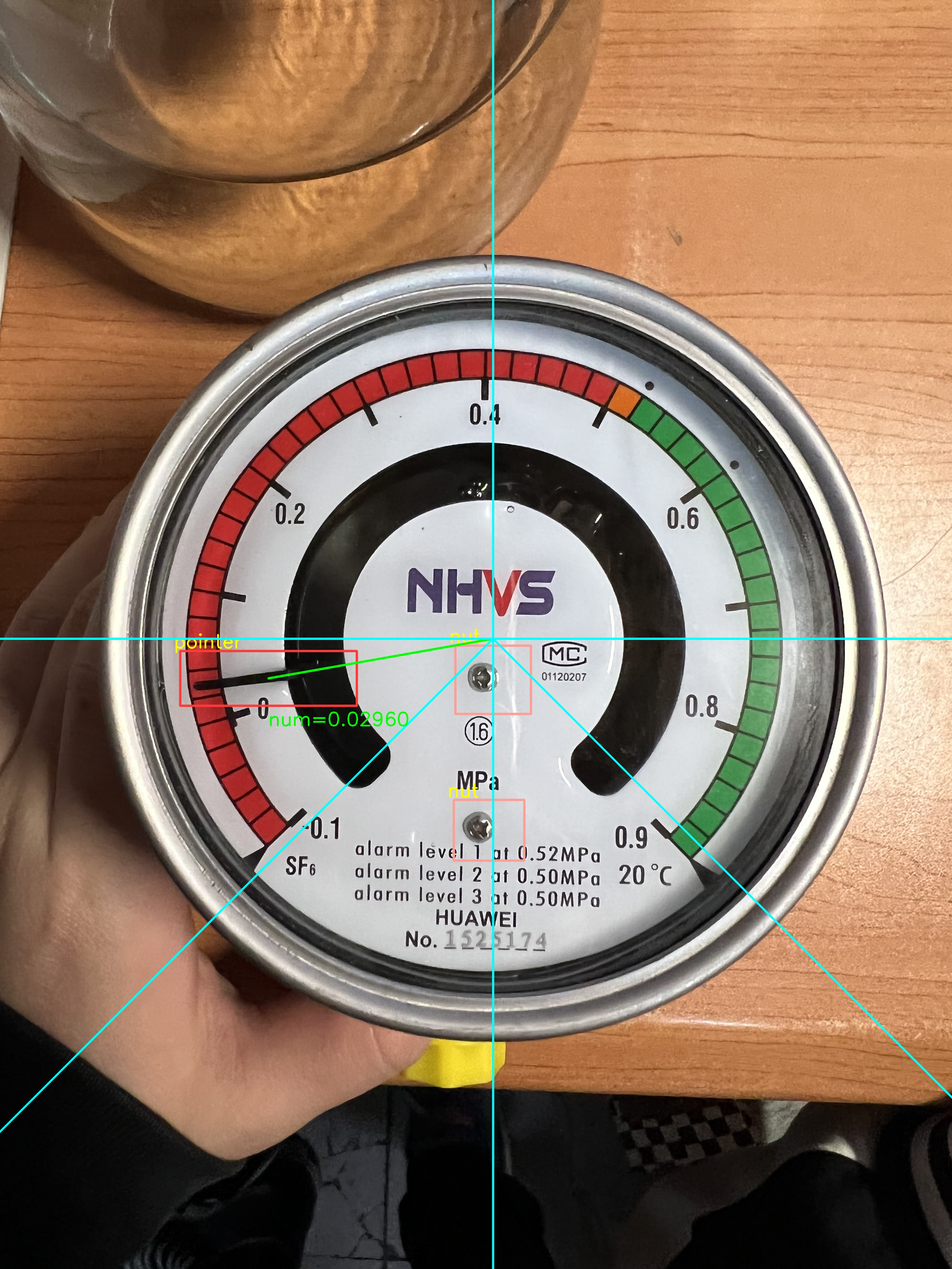
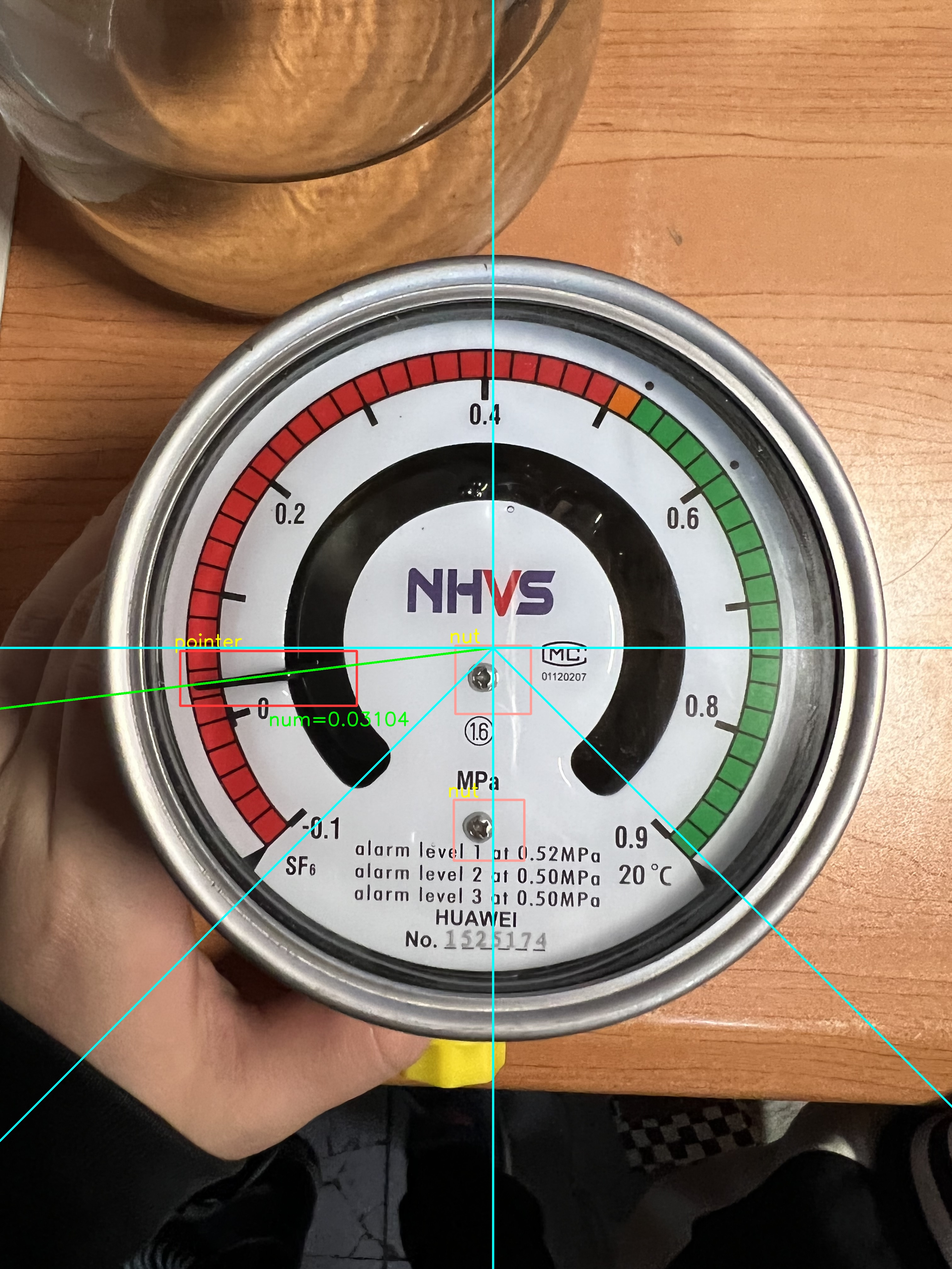
改进了以霍夫直线变换产生的斜率与中心y轴为交点的方法，但算K值的中心还没完善

diff --git a/yolov5_dnn.py b/yolov5_dnn.py
@@ -6,6 +6,7 @@ import time
 import math
 import os
 from numpy import array
+from meter_read import draw_line
 
 
 class Colors:
@@ -29,7 +30,7 @@ class Colors:
 colors = Colors()
 
 
-class yolov5():
+class yolov5:
     def __init__(self, onnx_path, confThreshold=0.25, nmsThreshold=0.45):
         self.classes = ['pointer', 'nut']
         self.colors = [np.random.randint(0, 255, size=3).tolist() for _ in range(len(self.classes))]
@@ -186,94 +187,55 @@ class yolov5():
         pred = self.non_max_suppression(outs, self.confThreshold, agnostic=False)
 
         center_nut = [100000000, 100000000]  # 表示inf
-        point = [0, 0]
+        point = [0] * 6
 
         # draw box
-        for i in pred[0]:
-            left = int((i[0] - wh[0]) / ratio[0])
-            top = int((i[1] - wh[1]) / ratio[1])
-            width = int((i[2] - wh[0]) / ratio[0])
-            height = int((i[3] - wh[1]) / ratio[1])
-            conf = i[4]
-            classId = i[5]
-            _class = self.classes[int(classId)]
-            cv2.rectangle(src_img, (int(left), int(top)), (int(width), int(height)), colors(classId, True), 5,
-                          lineType=cv2.LINE_AA)
-            # label = '%.2f' % conf
-            # label = '%s:%s' % (self.classes[int(classId)], label)
+        if len(pred[0]) > 0:  # 有无检测结果
 
-            label = '%s' % (self.classes[int(classId)])
+            for i in pred[0]:
+                left = int((i[0] - wh[0]) / ratio[0])
+                top = int((i[1] - wh[1]) / ratio[1])
+                width = int((i[2] - wh[0]) / ratio[0])
+                height = int((i[3] - wh[1]) / ratio[1])
+                conf = i[4]
+                classId = i[5]
+                _class = self.classes[int(classId)]
+                cv2.rectangle(src_img, (int(left), int(top)), (int(width), int(height)), colors(classId, True), 5,
+                              lineType=cv2.LINE_AA)
+                # label = '%.2f' % conf
+                # label = '%s:%s' % (self.classes[int(classId)], label)
 
-            center_x = (int(left) + int(width)) // 2
-            center_y = (int(top) + int(height)) // 2
+                label = '%s' % (self.classes[int(classId)])
 
-            # print(f'{_class}:\tloc={center_x, center_y}')
+                center_x = (int(left) + int(width)) // 2
+                center_y = (int(top) + int(height)) // 2
 
-            if _class == 'nut' and center_nut[1] > center_y:
-                center_nut[0] = center_x
-                center_nut[1] = center_y
-            if _class == 'pointer':
-                # pointer = src_img[top + 5:height - 5, left + 5:width - 5]  # 这个加5减5是为了去除框的红线的，虽然其实可以在画红线前取
-                # cv2.imshow("1", pointer)
-                # cv2.imwrite(f"./pointer/{random.randint(1, 20)}.jpg", pointer)
-                point[0] = center_x
-                point[1] = center_y
+                # print(f'{_class}:\tloc={center_x, center_y}')
 
-            # Display the label at the top of the bounding box
-            labelSize, baseLine = cv2.getTextSize(label, cv2.FONT_HERSHEY_SIMPLEX, 0.5, 1)
-            top = max(top, labelSize[1])
-            cv2.putText(src_img, label, (int(left - 20), int(top - 10)), cv2.FONT_HERSHEY_SIMPLEX, 2, (0, 255, 255),
-                        thickness=4, lineType=cv2.LINE_AA)
+                if _class == 'nut' and center_nut[1] > center_y:
+                    center_nut[0] = center_x
+                    center_nut[1] = center_y
+                if _class == 'pointer':
+                    # pointer = src_img[top + 5:height - 5, left + 5:width - 5]  # 这个加5减5是为了去除框的红线的，虽然其实可以在画红线前取
+                    # cv2.imshow("1", pointer)
+                    # cv2.imwrite(f"./pointer/{random.randint(1, 20)}.jpg", pointer)
+                    point[0] = center_x
+                    point[1] = center_y
+                    point[2] = top
+                    point[3] = height
+                    point[4] = left
+                    point[5] = width
 
-        fix_center_nut_y = center_nut[1] - 130  # 修正后的中心y坐标
+                    # Display the label at the top of the bounding box
+                labelSize, baseLine = cv2.getTextSize(label, cv2.FONT_HERSHEY_SIMPLEX, 0.5, 1)
+                top = max(top, labelSize[1])
+                cv2.putText(src_img, label, (int(left - 20), int(top - 10)), cv2.FONT_HERSHEY_SIMPLEX, 2, (0, 255, 255),
+                            thickness=4, lineType=cv2.LINE_AA)
 
-        cv2.line(src_img, (point[0], point[1]), (center_nut[0], fix_center_nut_y), (0, 255, 0), 5)  # 画指针线
+            if point[0] == 0 and point[1] == 0:
+                return src_img  # 没有找到指针
 
-        cv2.line(src_img, (center_nut[0], 0), (center_nut[0], src_img.shape[0]), (255, 255, 0), 5)  # 中心y轴
-        cv2.line(src_img, (0, fix_center_nut_y), (src_img.shape[1], fix_center_nut_y), (255, 255, 0), 5)  # 中心x轴
-
-        a = math.radians(90)  # 旋转到左边-0.1 (-45度)
-        r_x = (center_nut[0] - center_nut[0]) * math.cos(a) - (fix_center_nut_y - src_img.shape[0]) * math.sin(-a) + \
-              center_nut[0]
-        r_y = (center_nut[0] - center_nut[0]) * math.sin(-a) + (fix_center_nut_y - src_img.shape[0]) * math.cos(a) + \
-              src_img.shape[0]
-
-        cv2.line(src_img, (center_nut[0], fix_center_nut_y), (int(r_x), int(r_y)), (255, 255, 0), 5)
-
-        b = math.radians(90)  # 旋转到右边0.9 (-45度)
-        r_x = (center_nut[0] - center_nut[0]) * math.cos(b) - (fix_center_nut_y - src_img.shape[0]) * math.sin(b) + \
-              center_nut[0]
-        r_y = (center_nut[0] - center_nut[0]) * math.sin(b) + (fix_center_nut_y - src_img.shape[0]) * math.cos(b) + \
-              src_img.shape[0]
-
-        # print(r_x, r_y)
-
-        cv2.line(src_img, (center_nut[0], fix_center_nut_y), (int(r_x), int(r_y)), (255, 255, 0), 5)
-
-        a = [r_x - center_nut[0], r_y - fix_center_nut_y]  # 重新标定以表盘中心为原点的坐标
-
-        b = [point[0] - center_nut[0], point[1] - fix_center_nut_y]  # 重新标定以表盘中心为原点的坐标
-
-        beta = math.acos(  # ab=|a||b|cos(a)
-            (a[0] * b[0] + a[1] * b[1]) / (math.sqrt(a[0] ** 2 + a[1] ** 2) * math.sqrt(b[0] ** 2 + b[1] ** 2)))
-
-        # print(a, b)
-        print(f'beta={beta * 180 / math.pi}')
-
-        print(f'center_nut = {center_nut[0], fix_center_nut_y}')
-        print(f'pointer = {point[0], point[1]}')
-
-        k = -(fix_center_nut_y - point[1]) / (center_nut[0] - point[0])
-        print('k = %f' % k)
-
-        eps = math.radians(45) - math.atan(k)  # (180 - 98) / 2
-
-        ra = 1 / math.radians(270)
-        num = ra * eps - 0.1
-        print(f'num = {num}')
-
-        cv2.putText(src_img, f'num={num:.5f}', (point[0], point[1] + 150), cv2.FONT_HERSHEY_SIMPLEX, 2, (0, 255, 0),
-                    thickness=3, lineType=cv2.LINE_AA)
+            src_img = draw_line(src_img, center_nut, point)
 
         return src_img
 

diff --git a/meter_read.py b/meter_read.py
@@ -1,0 +1,79 @@
+import cv2
+import math
+from pointer_process import find_lines
+
+
+def find_center(xy1, xy2, x_hat):
+    k = (xy1[1] - xy2[1]) / (xy1[0] - xy2[0])
+    b = xy1[1] - k * xy1[0]
+    center = (x_hat, int(k * x_hat + b))
+    return center
+
+
+def draw_line(src_img, center_nut, point):
+    bias = 125  # 需修正的参数
+
+    
+    xy = find_lines(src_img[point[2] + 5:point[3] - 5, point[4] + 5:point[5] - 5])
+
+    xy[0][0] += point[4]  # 检测指针直线修正
+    xy[0][1] += point[2]
+    xy[1][0] += point[4]
+    xy[1][1] += point[2]
+
+    center = find_center(xy[0], xy[1], center_nut[0])
+    print(center)
+
+    cv2.line(src_img, (xy[0][0], xy[0][1]), (center[0], center[1]), (0, 255, 0), 5)  # 画指针线
+
+    fix_center_nut_y = center_nut[1] - bias  # 修正后的中心y坐标
+
+    # cv2.line(src_img, (point[0], point[1]), (center_nut[0], fix_center_nut_y), (0, 255, 0), 5)  # 画指针线
+
+    cv2.line(src_img, (center[0], 0), (center[0], src_img.shape[0]), (255, 255, 0), 5)  # 中心y轴
+    cv2.line(src_img, (0, center[1]), (src_img.shape[1], center[1]), (255, 255, 0), 5)  # 中心x轴
+
+    a = math.radians(90)  # 旋转到左边-0.1 (-45度)
+    r_x = (center[0] - center[0]) * math.cos(a) - (center[1] - src_img.shape[0]) * math.sin(-a) + \
+          center[0]
+    r_y = (center[0] - center[0]) * math.sin(-a) + (center[1] - src_img.shape[0]) * math.cos(a) + \
+          src_img.shape[0]
+
+    cv2.line(src_img, (center[0], center[1]), (int(r_x), int(r_y)), (255, 255, 0), 5)
+
+    b = math.radians(90)  # 旋转到右边0.9 (-45度)
+    r_x = (center[0] - center[0]) * math.cos(b) - (center[1] - src_img.shape[0]) * math.sin(b) + \
+          center[0]
+    r_y = (center[0] - center[0]) * math.sin(b) + (center[1] - src_img.shape[0]) * math.cos(b) + \
+          src_img.shape[0]
+
+    # print(r_x, r_y)
+
+    cv2.line(src_img, (center[0], center[1]), (int(r_x), int(r_y)), (255, 255, 0), 5)
+
+    a = [r_x - center_nut[0], r_y - fix_center_nut_y]  # 重新标定以表盘中心为原点的坐标
+
+    b = [point[0] - center_nut[0], point[1] - fix_center_nut_y]  # 重新标定以表盘中心为原点的坐标
+
+    beta = math.acos(  # ab=|a||b|cos(a)
+        (a[0] * b[0] + a[1] * b[1]) / (math.sqrt(a[0] ** 2 + a[1] ** 2) * math.sqrt(b[0] ** 2 + b[1] ** 2)))
+
+    # print(a, b)
+    print(f'beta={beta * 180 / math.pi}')
+
+    print(f'center_nut = {center_nut[0], fix_center_nut_y}')
+    print(f'pointer = {point[0], point[1]}')
+
+    k = -(fix_center_nut_y - point[1]) / (center_nut[0] - point[0])
+    print('k = %f' % k)
+
+    eps = math.radians(45) - math.atan(k)  # (180 - 98) / 2
+
+    ra = 1 / math.radians(270)
+    num = ra * eps - 0.1
+    print(f'num = {num}')
+
+    cv2.putText(src_img, f'num={num:.5f}', (point[0], point[1] + 150), cv2.FONT_HERSHEY_SIMPLEX, 2, (0, 255, 0),
+                thickness=3, lineType=cv2.LINE_AA)
+
+    return src_img

diff --git a/pointer_process.py b/pointer_process.py
@@ -3,6 +3,10 @@ import math
 
 
 def draw_line(line, src_img):
+    sum_x1 = 0
+    sum_y1 = 0
+    sum_x2 = 0
+    sum_y2 = 0
     if line is not None:
         print(f'line_num={len(line)}')
         for i in range(0, len(line)):
@@ -12,29 +16,44 @@ def draw_line(line, src_img):
             b = math.sin(theta)
             x0 = a * rho
             y0 = b * rho
-            pt1 = (int(x0 + 1000 * (-b)), int(y0 + 1000 * (a)))
-            pt2 = (int(x0 - 1000 * (-b)), int(y0 - 1000 * (a)))
-            cv2.line(src_img, pt1, pt2, (255, 0, 0), 3, cv2.LINE_AA)
+            x1 = int(x0 + 1000 * (-b))
+            y1 = int(y0 + 1000 * (a))
+            x2 = int(x0 - 1000 * (-b))
+            y2 = int(y0 - 1000 * (a))
+            sum_x1 += x1
+            sum_y1 += y1
+            sum_x2 += x2
+            sum_y2 += y2
+            # cv2.line(src_img, (x1, y1), (x2, y2), (255, 0, 0), 3, cv2.LINE_AA)
+        sum_x1 = sum_x1 // len(line)
+        sum_y1 = sum_y1 // len(line)
+        sum_x2 = sum_x2 // len(line)
+        sum_y2 = sum_y2 // len(line)
+        cv2.line(src_img, (sum_x1, sum_y1), (sum_x2, sum_y2), (255, 0, 0), 3, cv2.LINE_AA)
+    return src_img, [[sum_x1, sum_y1], [sum_x2, sum_y2]]
 
-    return src_img
+
+def find_lines(img):
+    # ret, img_ = cv2.threshold(img, 170, 205, cv2.THRESH_TRUNC + cv2.THRESH_OTSU)
+    img_canny = cv2.Canny(img, 160, 205)
+
+    img_blur = cv2.GaussianBlur(img_canny, (3, 3), 0)
+
+    img_erode = cv2.erode(img_blur, (5, 5), iterations=1)
+
+    lines = cv2.HoughLines(img_erode, 1, math.pi / 180, 180)
+
+    img_erode, xy = draw_line(lines, img_erode)
+    # cv2.imshow("erosion", img_erode)
+    # cv2.waitKey(0)
+    print(xy)
+    return xy
 
 
-img = cv2.imread("./pointer/15.jpg", 0)
-
-# ret, img_ = cv2.threshold(img, 170, 205, cv2.THRESH_TRUNC + cv2.THRESH_OTSU)
-img_canny = cv2.Canny(img, 160, 205)
-
-img_blur = cv2.GaussianBlur(img_canny, (3, 3), 0)
-
-img_erode = cv2.erode(img_blur, (5, 5), iterations=1)
-
-lines = cv2.HoughLines(img_erode, 1, math.pi / 180, 180)
-
-img_erode = draw_line(lines, img_erode)
-cv2.imshow("erosion", img_erode)
-# cv2.imshow("img_blur", img_blur)
-# cv2.imshow("erosion", erosion)
-cv2.waitKey(0)
+# img = cv2.imread("./pointer/19.jpg", 0)
+# img_erode1 = find_lines(img)
+# cv2.imshow("erosion", img_erode1)
+# cv2.waitKey(0)
 
 # def nothing(x):
 #     pass
